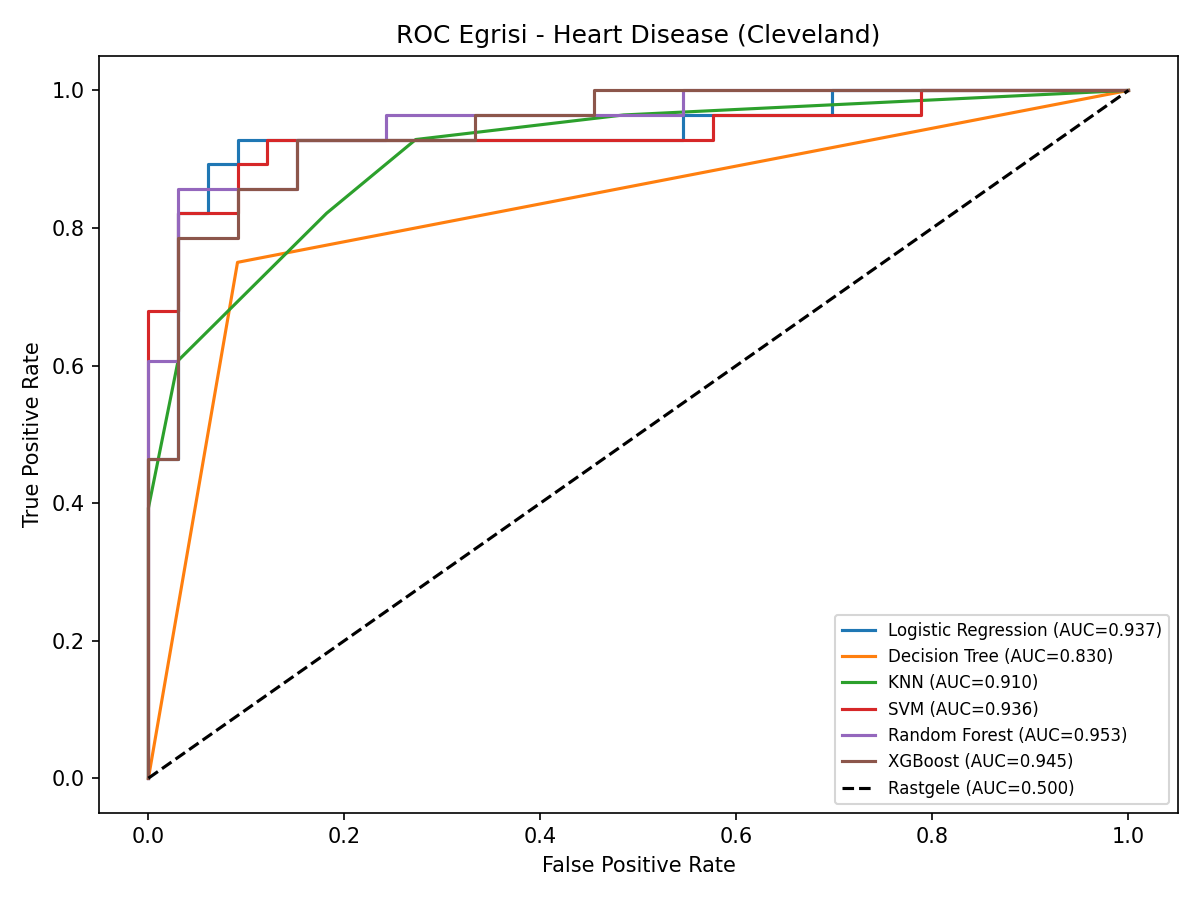
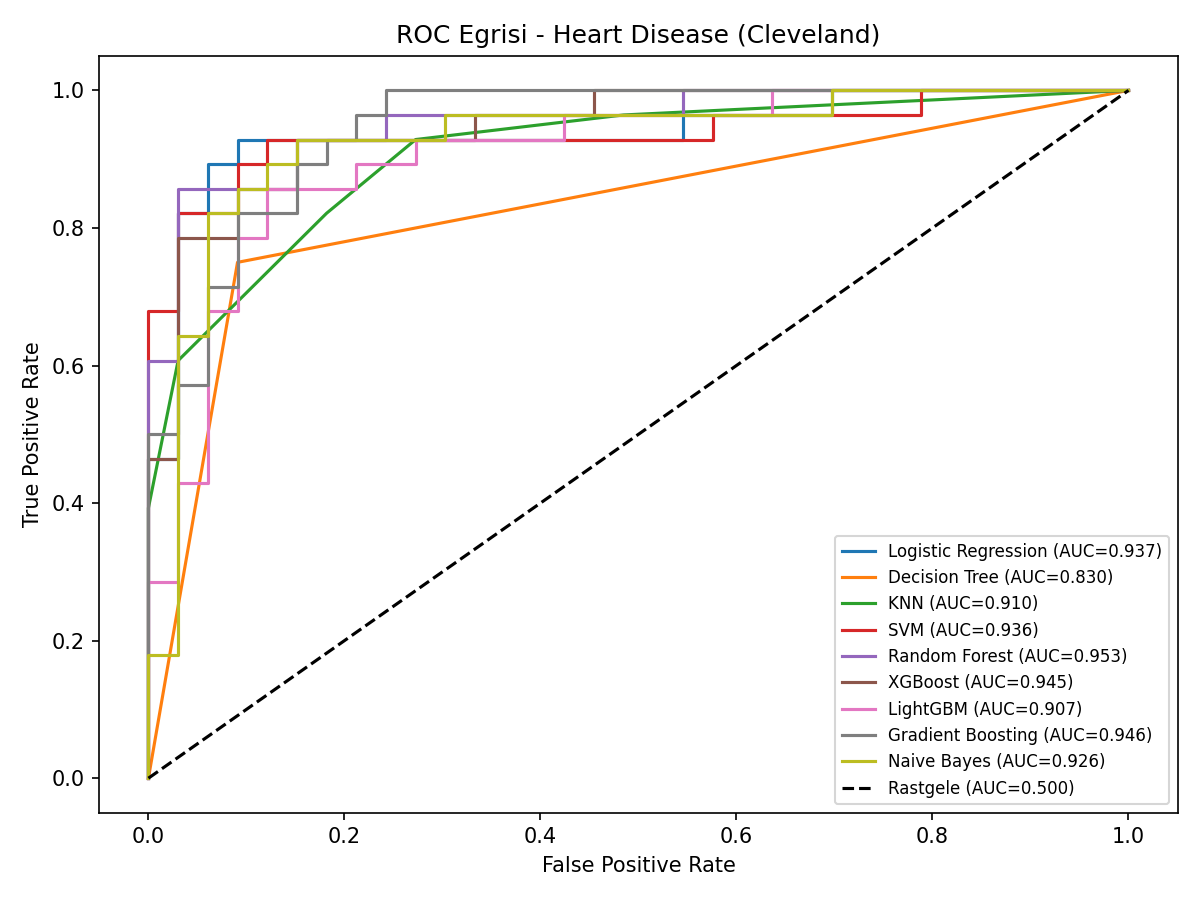
feat: LightGBM, Gradient Boosting ve Naive Bayes eklendi
- 6 algoritmadan 9 algoritmaya cikarildi
- 12 kombinasyondan 18 kombinasyona cikarildi
- LightGBM Early Stage'de %98.1 accuracy ile en yuksek skoru aldi
- requirements.txt guncellendi (lightgbm==4.6.0)

diff --git a/model.py b/model.py
@@ -9,7 +9,10 @@ from sklearn.linear_model import LogisticRegression
 from sklearn.tree import DecisionTreeClassifier
 from sklearn.neighbors import KNeighborsClassifier
 from sklearn.svm import SVC
+from sklearn.ensemble import GradientBoostingClassifier
+from sklearn.naive_bayes import GaussianNB
 from sklearn.preprocessing import StandardScaler
+from lightgbm import LGBMClassifier
 from sklearn.metrics import accuracy_score, classification_report, roc_auc_score, confusion_matrix, ConfusionMatrixDisplay, roc_curve, f1_score
 from sklearn.calibration import calibration_curve, CalibrationDisplay
 from sklearn.model_selection import train_test_split, cross_val_score, StratifiedKFold, RepeatedStratifiedKFold
@@ -223,7 +226,7 @@ else:
     print(f"  Parametreler kaydedildi: {PARAMS_FILE}")
 
 # 6. TÜM MODELLERİ EĞİT (TAM ÖZELLİKLERLE)
-print("\n[6] MODEL EĞİTİMİ (6 Farklı Algoritma - 8 özellik)")
+print("\n[6] MODEL EĞİTİMİ (9 Farklı Algoritma - 8 özellik)")
 print("     " + "-"*50)
 
 def build_models():
@@ -247,6 +250,12 @@ def build_models():
         "XGBoost": XGBClassifier(
             **best_xgb_params, random_state=42, eval_metric='logloss', verbosity=0
         ),
+        "LightGBM": LGBMClassifier(random_state=42, verbose=-1),
+        "Gradient Boosting": GradientBoostingClassifier(random_state=42),
+        "Naive Bayes": Pipeline([
+            ('scaler', StandardScaler()),
+            ('model', GaussianNB())
+        ]),
     }
 
 modeller = build_models()
@@ -274,7 +283,7 @@ for isim, model in modeller.items():
     print(f"    Classification Report (Diyabetli sınıfı odaklı):\n{classification_report(y_test, y_pred, target_names=['Negatif','Diyabetli'])}")
 
 # 7. TÜM KOMBİNASYONLAR: HER ALGORİTMA × (FULL + TOP 5)
-print(f"\n[7] MODEL KARŞILAŞTIRMASI (6 Algoritma × Full + Top 5 = 12 kombinasyon)")
+print(f"\n[7] MODEL KARŞILAŞTIRMASI (9 Algoritma × Full + Top 5 = 18 kombinasyon)")
 print("     " + "-"*62)
 
 tum_modeller = build_models()

diff --git a/coklu_veri.py b/coklu_veri.py
@@ -24,10 +24,13 @@ from sklearn.linear_model import LogisticRegression
 from sklearn.neighbors import KNeighborsClassifier
 from sklearn.tree import DecisionTreeClassifier
 from sklearn.svm import SVC
+from sklearn.ensemble import GradientBoostingClassifier
+from sklearn.naive_bayes import GaussianNB
 from sklearn.feature_selection import mutual_info_classif, chi2, f_classif, RFE, SelectFromModel
 from sklearn.pipeline import Pipeline
 from sklearn.base import clone
 from xgboost import XGBClassifier
+from lightgbm import LGBMClassifier
 import optuna
 
 optuna.logging.set_verbosity(optuna.logging.WARNING)
@@ -246,9 +249,15 @@ def pipeline_calistir(X, y, df_full, veri_adi, params_dosya, output_klasor, mode
             "Random Forest": RandomForestClassifier(**best_rf, random_state=42),
             "XGBoost": XGBClassifier(**best_xgb, random_state=42,
                                      eval_metric='logloss', verbosity=0),
+            "LightGBM": LGBMClassifier(random_state=42, verbose=-1),
+            "Gradient Boosting": GradientBoostingClassifier(random_state=42),
+            "Naive Bayes": Pipeline([
+                ('scaler', StandardScaler()),
+                ('model', GaussianNB())
+            ]),
         }
 
-    print(f"\n  [6] 6 Algoritma x 2 Ozellik Seti = 12 Kombinasyon")
+    print(f"\n  [6] 9 Algoritma x 2 Ozellik Seti = 18 Kombinasyon")
     print(f"      {'Kombinasyon':<32} {'Accuracy':>10} {'AUC':>10} {'CV AUC':>10}")
     print("      " + "-"*60)
 
